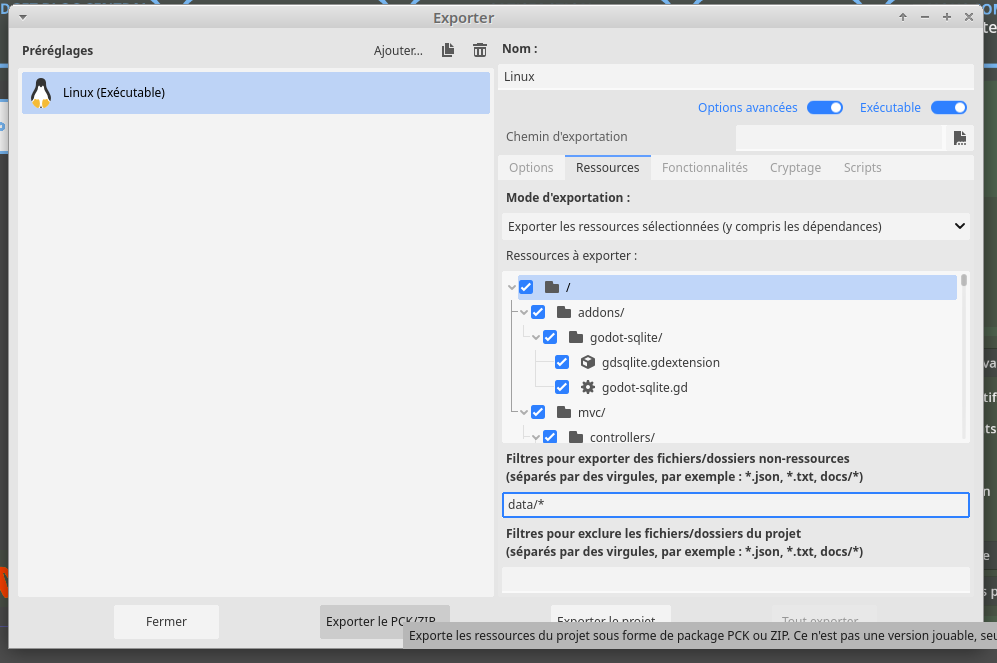
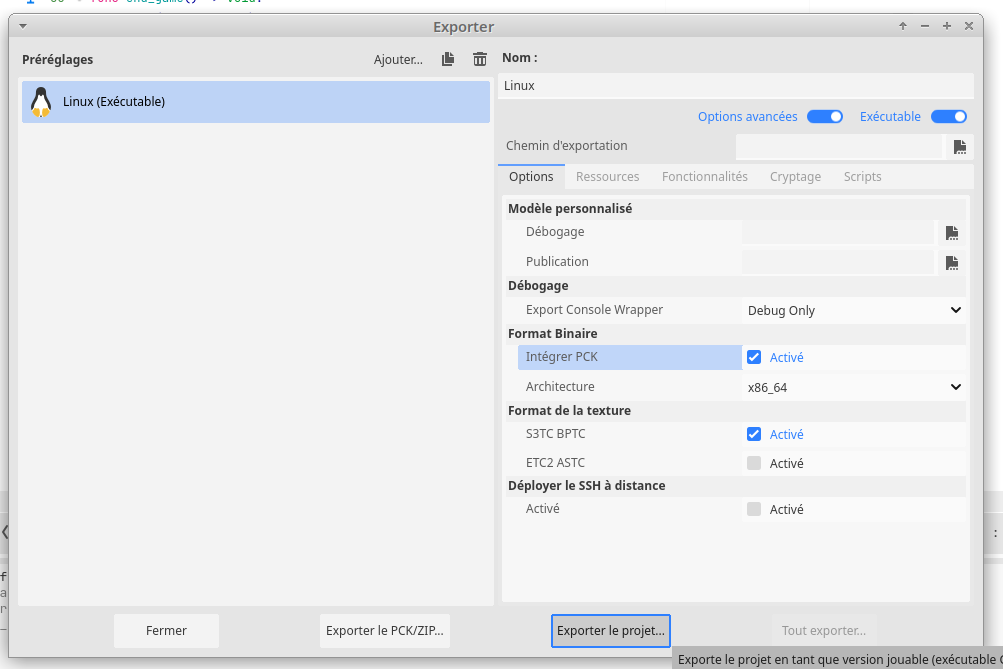
màj de readme

Changed region(s): [[0.0, 0.0, 1.0, 1.0], [0.7462, 0.5732, 0.7773, 0.6033]]

diff --git a/README.md b/README.md
@@ -61,26 +61,17 @@ Vous pouvez également télécharger l'exécutable, en version Windows ou Linux,
 
 Vous pouvez télécharger directement l'exécutable du jeu sur ce dépôt Git :
 
-[RenovIUT.zip](https://git.unistra.fr/coruscant/renov-iut/-/raw/main/game/RenovIUT.zip?ref_type=heads&inline=false)
+[RenovIUT.zip](https://git.unistra.fr/coruscant/renov-iut/-/blob/main/game/RenovIUT.zip?ref_type=heads)
 
-Si vous rencontrez des problèmes liés à l'intégration de la base de données dans le jeu, il est possible de créer un exécutable depuis une archive complète du projet :
+Si vous rencontrez des problèmes liés à l'intégration de la base de données dans le jeu, il est possible de créer un exécutable vous-mêmes :
 
 1. Inclure `data/*` comme répertoires hors-ressources :
 
 ![Menu](visuals/screenshots/menu_export.png) ![Ecran1](visuals/screenshots/export1.png) ![Ecran2](visuals/screenshots/export2.png)
 
-2. Installer `godot` si ce n'est déjà fait.
-3. Télécharger le packaging [ici](https://git.unistra.fr/coruscant/renov-iut/-/raw/main/compilation_config/linux/renoviut.pck?ref_type=heads&inline=false).
-4. Exécuter dans la ligne de commande :
+2. Créer l'archive contenant l'exécutable, un script de lancement et la bibliothèque dynamique nécessaire pour utiliser les bases de données SQLite : [ici](https://git.unistra.fr/coruscant/renov-iut/-/raw/main/compilation_config/linux/renoviut.pck?ref_type=heads&inline=false)
 
-```
-godot --export-release "<préréglage>" RenovIUT renoviut.pck
-```
-5. Lancer l'exécutable résultant ; au besoin, donnez-vous les droits d'exécution :
-```
-chmod u+x RenovIUT
-./RenovIUT
-```
+**Enjoy !**
 
 ## Cahier des charges
 
